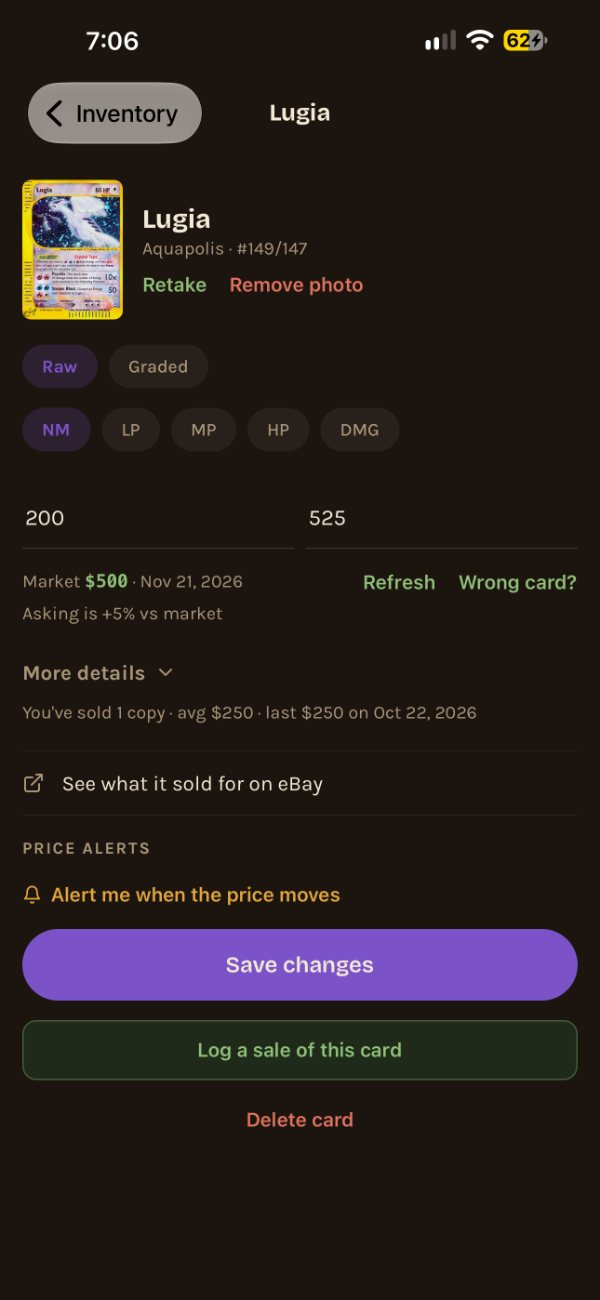
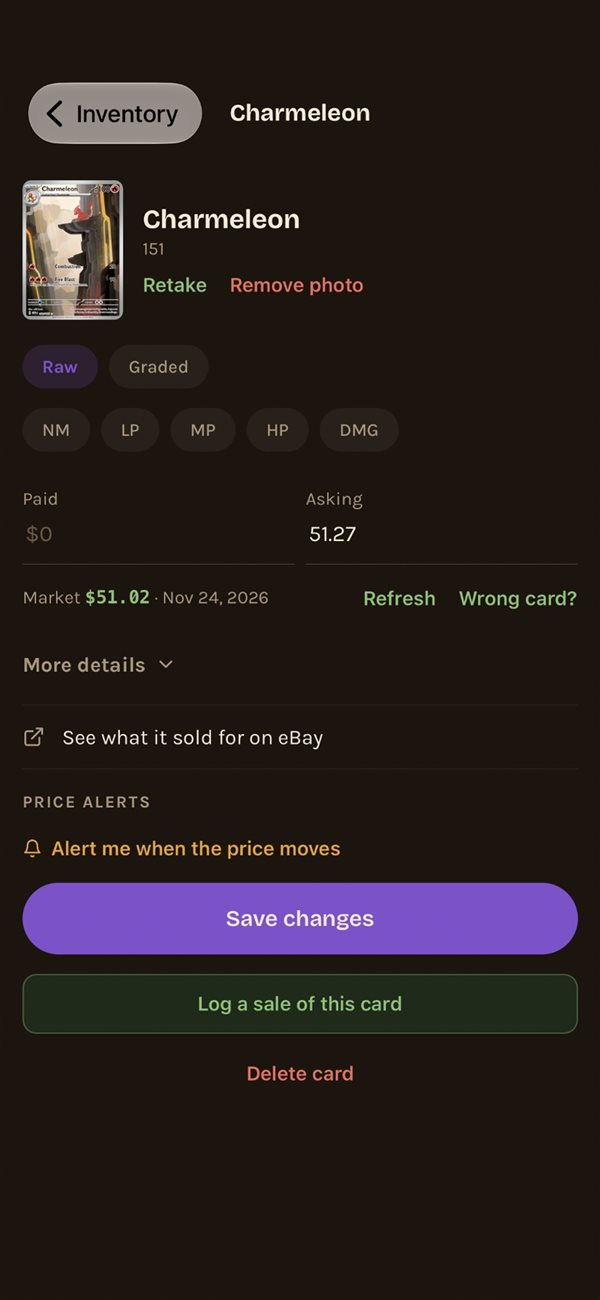
Draft: Charmeleon in place of Lugia, stack screenshot on 2/5, no status bars, accurate comps wording
Claude-Session: https://claude.ai/code/session_01SCz9gYtFys2z2NQP1zbMZL

diff --git a/index.html b/index.html
@@ -4,7 +4,7 @@
 <meta charset="utf-8">
 <meta name="viewport" content="width=device-width, initial-scale=1">
 <title>VendorPro: inventory and profit tracking for card vendors</title>
-<meta name="description" content="Track every card you buy, sell and trade at card shows. Scan cards, see TCGplayer and eBay comps, and know your profit after every show. Free on iPhone.">
+<meta name="description" content="Track every card you buy, sell and trade at card shows. Scan cards, check TCGplayer prices and eBay sold listings, and know your profit after every show. Free on iPhone.">
 <meta property="og:title" content="VendorPro: built for card vendors">
 <meta property="og:description" content="Scan, price and track every buy, sell and trade at your shows. Know your profit before you pack up.">
 <meta property="og:image" content="https://getvendorpro.app/img/4-vendor-mode.jpg">
@@ -137,6 +137,7 @@
   .price { font: 800 clamp(72px, 9vw, 130px)/0.9 'Bricolage Grotesque', sans-serif; letter-spacing: -0.04em; }
   .pricing h2 { font-size: clamp(28px, 3vw, 40px); font-weight: 800; margin-top: 14px; }
   .ticks { list-style: none; padding: 0; margin: 26px 0 30px; display: grid; gap: 10px; font-size: 18px; }
+  .pricing .fine { color: var(--muted); font-size: 15px; max-width: 44ch; margin: -14px 0 26px; }
   .ticks li { display: flex; gap: 12px; align-items: baseline; }
   .ticks li::before { content: ''; flex: 0 0 9px; height: 9px; border-radius: 50%; background: var(--green-ink); transform: translateY(-1px); }
 
@@ -289,7 +290,7 @@
       <h2>Someone drops a binder on your table.</h2>
       <p>Scan a stack card after card, set your buy percentage, and make the offer while they're still standing there.</p>
     </div>
-    <div class="phone"><img src="/img/v2/screen-inventory.jpg" alt="Inventory with 54 cards in stock, $6,092 invested and $9,431 sticker value" loading="lazy" width="600" height="1300"></div>
+    <div class="phone"><img src="/img/v2/screen-stack.jpg" alt="Review your stack: $208.95 market value, buy at 90%, an offer of $188.06 and a Show customer button" loading="lazy" width="600" height="1300"></div>
   </section>
 
   <section class="panel step" aria-label="Checking a price">
@@ -299,7 +300,7 @@
       <h2>Price check before you sell.</h2>
       <p>Market price by condition, your asking price against it, and a one-tap link to what it actually sold for on eBay.</p>
     </div>
-    <div class="phone"><img src="/img/v2/screen-card.jpg" alt="Card details for Lugia with condition, market price of $500 and a link to eBay sold listings" loading="lazy" width="600" height="1300"></div>
+    <div class="phone"><img src="/img/v2/screen-card.jpg" alt="Card details for Charmeleon from 151 with paid and asking prices, a market price of $51.02 and a link to eBay sold listings" loading="lazy" width="600" height="1300"></div>
   </section>
 
   <section class="panel step" aria-label="Working without signal">
@@ -355,7 +356,7 @@
     <div class="grid">
       <article class="card"><img src="/img/v2/t-vm-menu.jpg" alt="" loading="lazy"><h3>Vendor Mode</h3><p>Log sales, buys and trades in seconds, with a built-in trade credit calculator.</p></article>
       <article class="card"><img src="/img/v2/t-card-head.jpg" alt="" loading="lazy"><h3>Card scanning</h3><p>Raw cards, slabs with grader and cert, Japanese cards, or a whole stack at once.</p></article>
-      <article class="card"><img src="/img/v2/t-card-price.jpg" alt="" loading="lazy"><h3>Comps that matter</h3><p>TCGplayer market prices for raw cards, eBay sold listings for slabs, and sealed prices.</p></article>
+      <article class="card"><img src="/img/v2/t-card-price.jpg" alt="" loading="lazy"><h3>Comps that matter</h3><p>TCGplayer market prices for raw cards and sealed, plus a one-tap link to eBay sold listings.</p></article>
       <article class="card"><img src="/img/v2/t-recap-profit.jpg" alt="" loading="lazy"><h3>Show recaps</h3><p>Revenue, cost and net cash flow for every show, ready the moment you pack up.</p></article>
       <article class="card"><img src="/img/v2/t-inv-rows.jpg" alt="" loading="lazy"><h3>Price moves</h3><p>Your inventory is repriced every night, with price moves on every card and price alerts.</p></article>
       <article class="card"><img src="/img/v2/t-inv-stats.jpg" alt="" loading="lazy"><h3>Your data, your way</h3><p>Import your old spreadsheet from CSV and export everything whenever you want.</p></article>
@@ -373,6 +374,7 @@
       <li>Every show recap and report</li>
       <li>No credit card, no trial clock</li>
     </ul>
+    <p class="fine">The vendor tools stay free for good. An optional Pro plan may add extras later.</p>
     <div><a class="btn" href="https://apps.apple.com/app/id6822562906">Download on the App Store</a></div>
   </section>
 
@@ -383,7 +385,7 @@
     <div class="list">
       <details><summary>Who is VendorPro for?</summary><p>People who sell cards at shows, from a first table to every weekend. If you buy, sell and trade in person and want to know what you actually made, it's for you.</p></details>
       <details><summary>Which cards does it support?</summary><p>Pokémon (English and Japanese), One Piece and sports cards, plus graded slabs and sealed product like booster boxes and cases.</p></details>
-      <details><summary>Where do the prices come from?</summary><p>TCGplayer market prices for raw cards and sealed product, and eBay sold listings for slabs. Your inventory is repriced every night.</p></details>
+      <details><summary>Where do the prices come from?</summary><p>TCGplayer market prices for raw cards and sealed product, plus a one-tap link to eBay sold listings for any card, slabs included. Your inventory is repriced every night.</p></details>
       <details><summary>Does it work with no signal?</summary><p>Yes. Sales and buys are saved on your phone and sync when you're back online.</p></details>
       <details><summary>Can I bring my existing spreadsheet?</summary><p>Yes. Import a CSV, and export your inventory and history whenever you want.</p></details>
       <details><summary>Is there an Android version?</summary><p>It's on the way. <a href="#android" data-go="android">Join the waitlist</a> and we'll email you once when it's on Google Play.</p></details>
